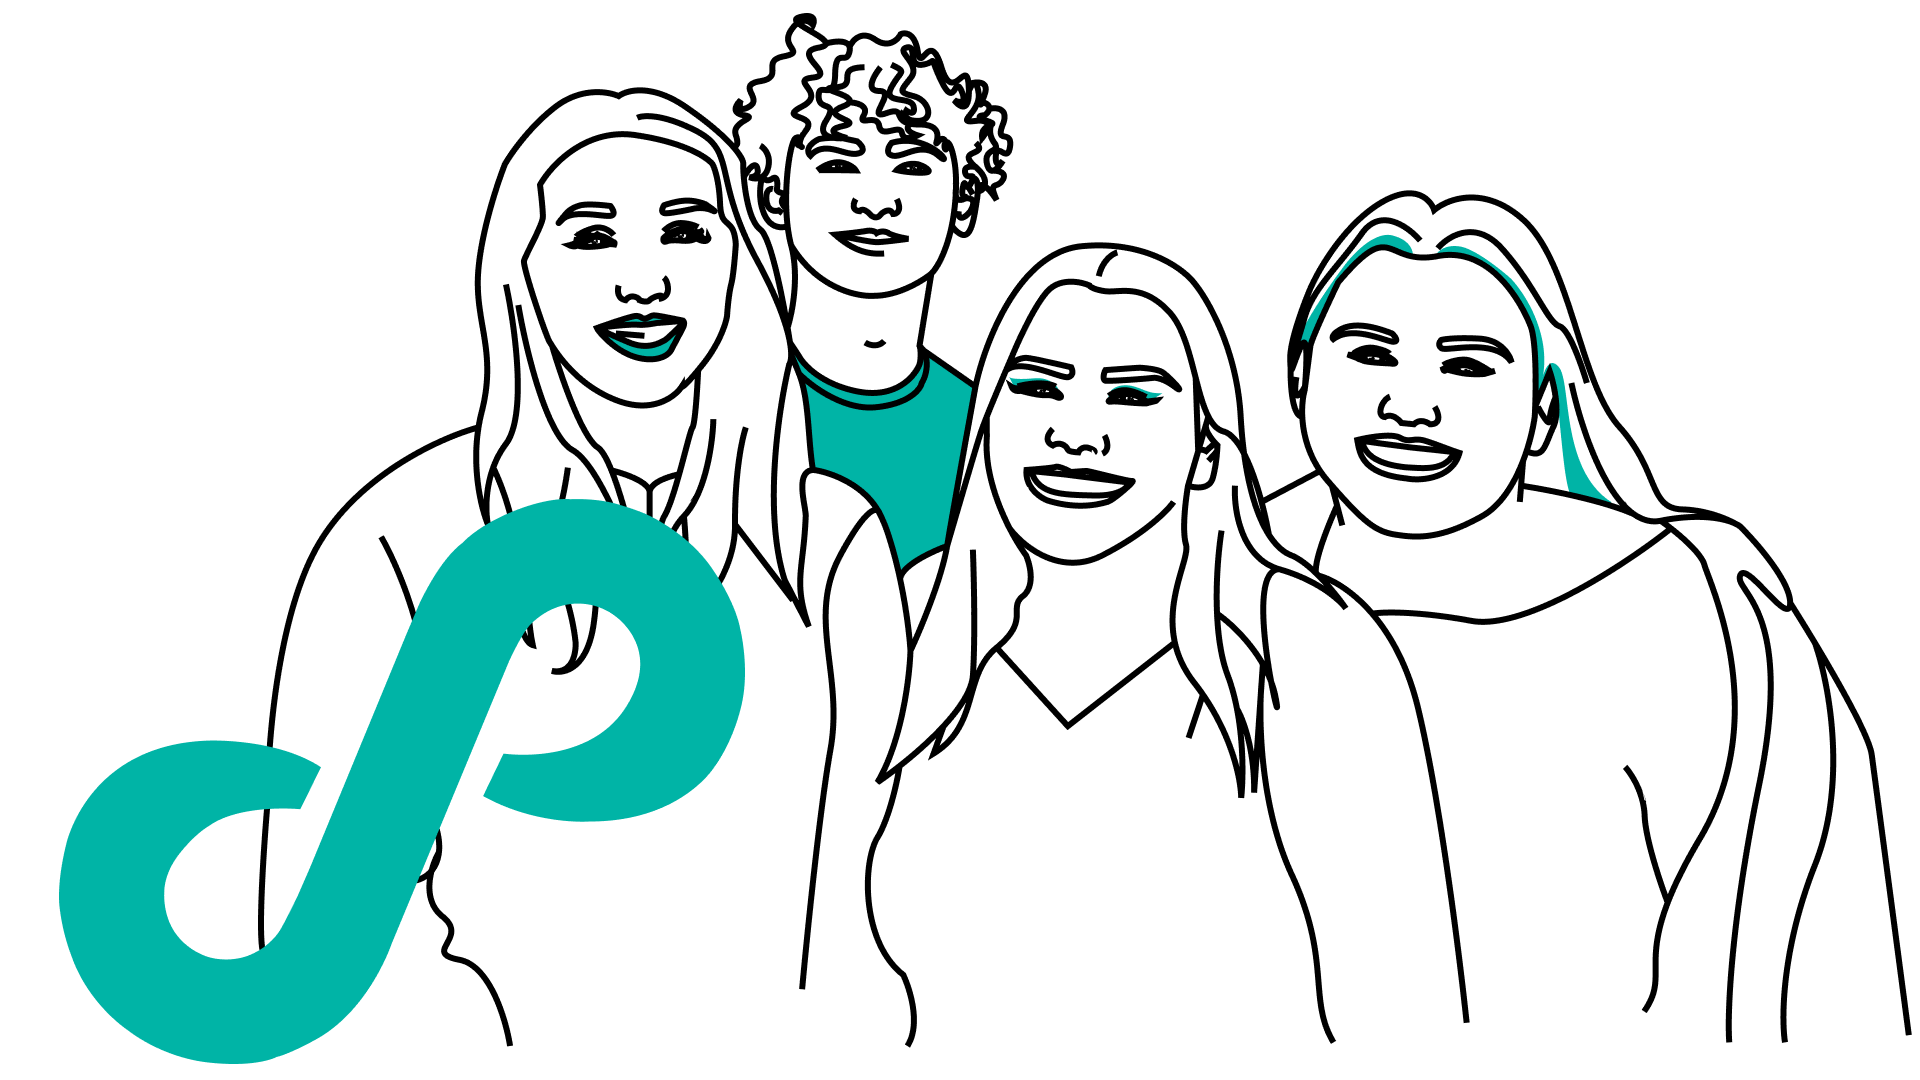
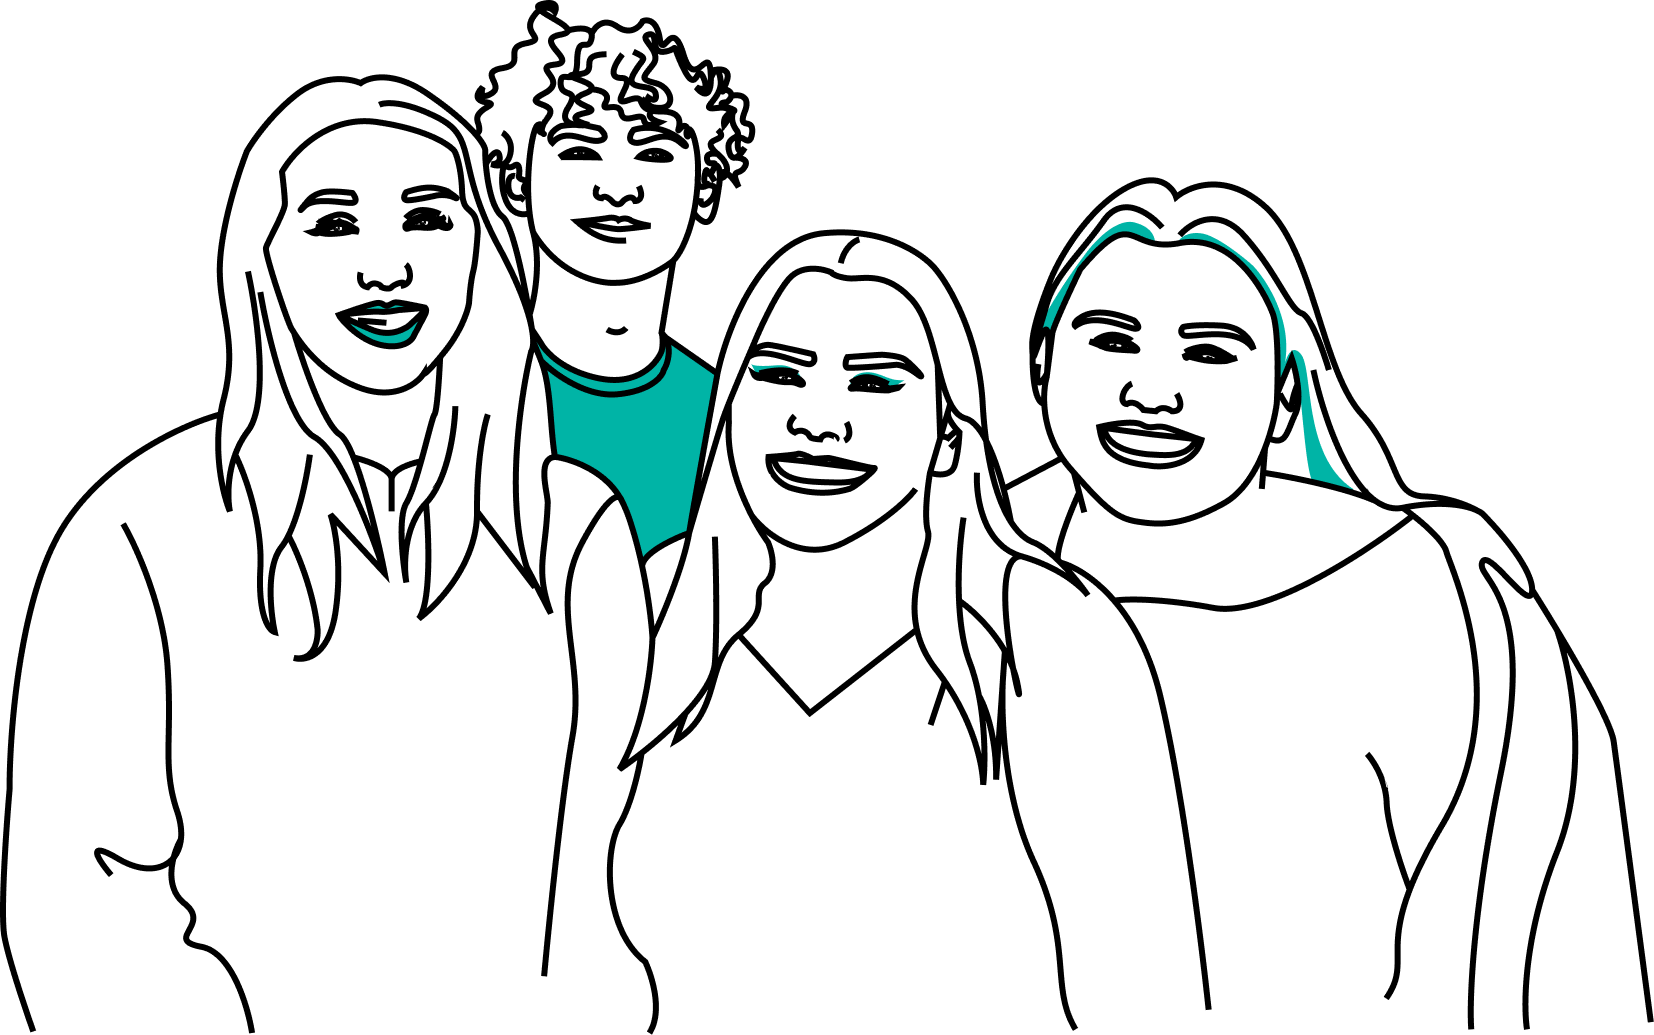
Doc updates 24

diff --git a/components/use/UseCasesSection.tsx b/components/use/UseCasesSection.tsx
@@ -1,6 +1,6 @@
 import { FC } from "react";
-import { Stack } from "@mui/material";
-import { colors } from "styles/theme";
+import { Box, Stack } from "@mui/material";
+import { colors, breakpoints } from "styles/theme";
 import { PageSection } from "components/common/PageSection";
 import { UseCaseItem } from "components/use/UseCaseItem";
 
@@ -8,11 +8,46 @@ type UseCasesSectionProps = {
   pages: any[];
 };
 
-export const UseCasesSection: FC<UseCasesSectionProps> = ({ pages }) => {
+export const UseCasesSection: FC<UseCasesSectionProps> = ({
+  pages,
+  children,
+}) => {
   const { white } = colors;
+  const { ps, pl, ts, tl, ds, dl } = breakpoints;
 
   return (
-    <PageSection backgroundColor={white}>
+    <PageSection
+      backgroundColor={white}
+      sx={{
+        py: 4,
+        px: 11.25,
+        [ps]: {
+          py: 2,
+          px: 3,
+        },
+        [pl]: {
+          py: 2,
+          px: 3,
+        },
+        [ts]: {
+          py: 3,
+          px: 4.375,
+        },
+        [tl]: {
+          py: 3,
+          px: 4.375,
+        },
+        [ds]: {
+          py: 4,
+          px: 6.25,
+        },
+        [dl]: {
+          py: 4,
+          px: 11.25,
+        },
+      }}
+    >
+      <Box>{children}</Box>
       <Stack spacing={6}>
         {pages.map((page) => (
           <UseCaseItem key={page.path} {...page} />

diff --git a/components/about/TeamItem.tsx b/components/about/TeamItem.tsx
@@ -4,7 +4,7 @@ import Link from "next/link";
 import { Box, Grid } from "@mui/material";
 import { colors, breakpoints, typography, loader } from "styles/theme";
 import { OutlinedButton } from "components/common/OutlinedButton";
-import staff from "public/images/staff.svg";
+import ourTeam from "public/images/our-team-who-we-are.png";
 
 export const TeamItem: FC = ({ children }) => {
   const { lightGrey, black } = colors;
@@ -31,20 +31,25 @@ export const TeamItem: FC = ({ children }) => {
         >
           <Grid
             item
+            container
+            direction="column"
+            justifyContent="center"
             sx={{
               width: "50%",
               [ps]: { width: "100%" },
               [tl]: { width: "50%" },
             }}
           >
-            <Box
-              sx={{
-                width: "75%",
-                margin: "0 auto",
-              }}
-            >
-              <Image src={staff} alt="" loader={loader} />
-            </Box>
+            <Grid item>
+              <Box
+                sx={{
+                  width: "85%",
+                  margin: "0 auto",
+                }}
+              >
+                <Image src={ourTeam} alt="" loader={loader} />
+              </Box>
+            </Grid>
           </Grid>
           <Grid
             item

diff --git a/components/contact/ContactSection.tsx b/components/contact/ContactSection.tsx
@@ -7,6 +7,8 @@ import contactHeader from "public/images/contact-header.png";
 export const ContactSection: FC = ({ children }) => {
   const { white } = colors;
   const { outlinedButton, bodyLarge } = typography;
+  const rest = (children as any[]).slice(0, -1);
+  const last = (children as any[]).slice(-1);
 
   return (
     <BaseHeaderSection backgroundColor={white}>
@@ -33,14 +35,29 @@ export const ContactSection: FC = ({ children }) => {
         <Grid item xs={6}>
           <Box
             sx={{
-              a: outlinedButton,
+              a: {
+                "&:hover": {
+                  background: "none",
+                  filter:
+                    "brightness(0) saturate(100%) invert(47%) sepia(82%) saturate(4262%) hue-rotate(155deg) brightness(99%) contrast(101%)",
+                },
+              },
               "> p": { ...bodyLarge, mb: 6 },
               "> h6": { mb: 4 },
-              py: 6,
+              pt: 6,
               img: { pr: "10px !important" },
             }}
           >
-            {children}
+            {rest}
+          </Box>
+          <Box
+            sx={{
+              a: {
+                ...outlinedButton,
+              },
+            }}
+          >
+            {last}
           </Box>
         </Grid>
       </Grid>

diff --git a/components/team/HeaderSection.tsx b/components/team/HeaderSection.tsx
@@ -3,7 +3,7 @@ import Image from "next/image";
 import { Box, Grid } from "@mui/material";
 import { typography, colors, loader, breakpoints } from "styles/theme";
 import { HeaderSection as BaseHeaderSection } from "components/common/HeaderSection";
-import ourTeamHeader from "public/images/our-team-header.svg";
+import ourTeamHeader from "public/images/our-team-who-we-are.png";
 
 export const HeaderSection: FC = ({ children }) => {
   const { lightGrey, mediumGrey } = colors;

diff --git a/components/about/PartnerItem.tsx b/components/about/PartnerItem.tsx
@@ -22,8 +22,8 @@ export const PartnerItem: FC = ({ children }) => {
     >
       <Grid item>
         <Link href={url}>
-          <Box sx={{ width: 150 }}>
-            <Image src={image} alt={name} loader={loader} />
+          <Box sx={{ width: 150, position: "relative" }}>
+            <Image src={image} alt={name} loader={loader} objectFit="contain" />
           </Box>
         </Link>
       </Grid>
